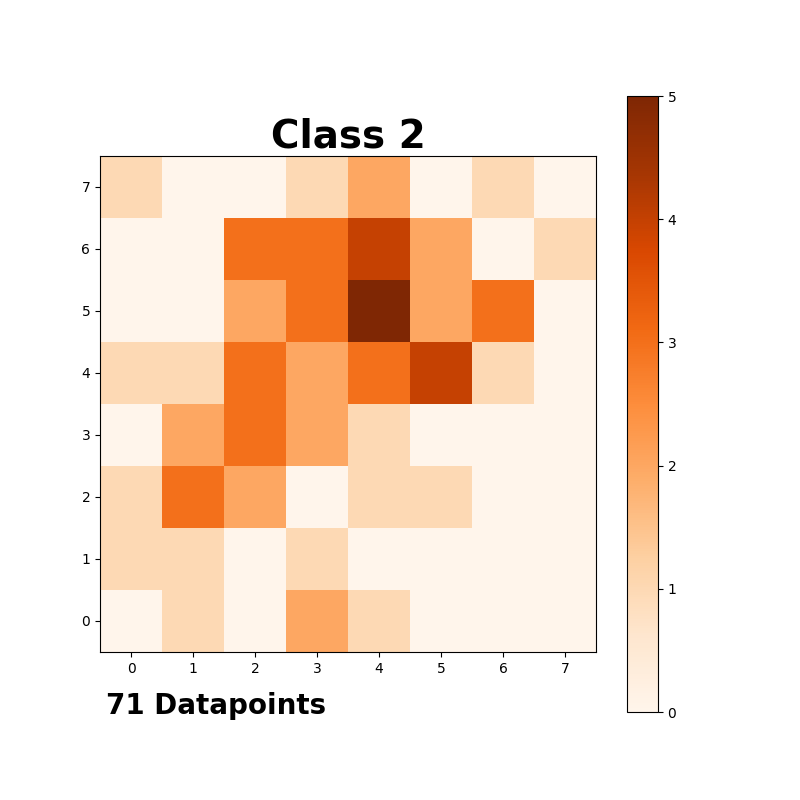
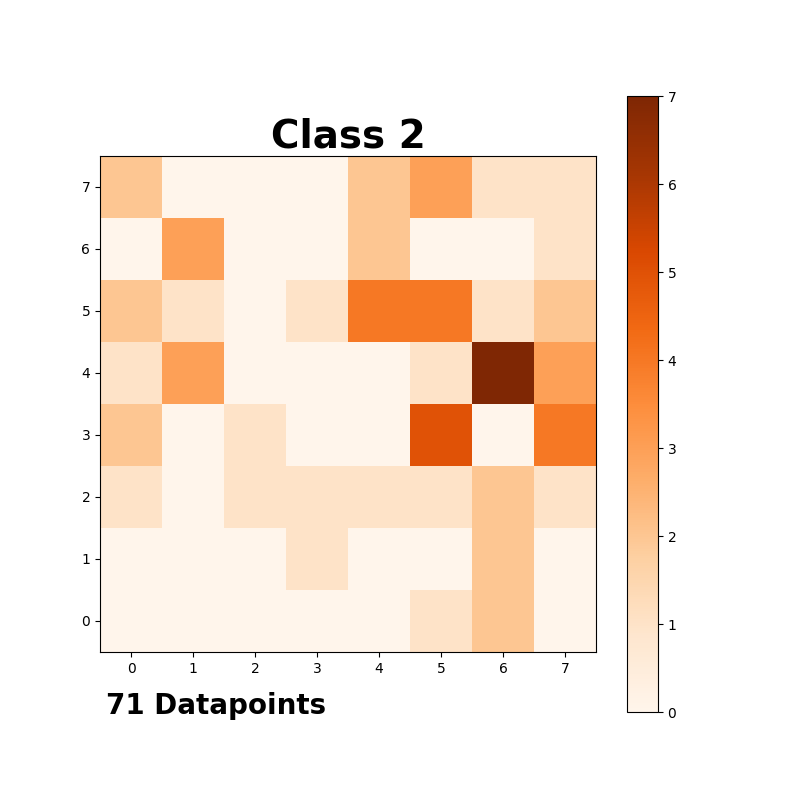
fix normalization error

Changed region(s): [[0.125, 0.1875, 0.75, 0.8125], [0.6562, 0.1875, 0.75, 0.2812]]

diff --git a/main.py b/main.py
@@ -10,8 +10,8 @@ print = logging.info
 def feature_normalizatoion(X):
     for i in range(len(X)):
         x = X[i]
-        x_sqare_sum = np.sum(x**2)
-        x = [f/x_sqare_sum for f in x]
+        x_sqare_sum_root = np.sum(x**2)**0.5
+        x = [f/x_sqare_sum_root for f in x]
         X[i] = x
     return X
 
@@ -39,7 +39,7 @@ if __name__ == "__main__":
     print('CLASS_COUNT:%d'%CLASS_COUNT)
 
     som = SOM(8, 8)  # initialize the SOM
-    som.fit(X, 25000, save_e=True, interval=100)  # fit the SOM for 10000 epochs, save the error every 100 steps
+    som.fit(X, 10000, save_e=True, interval=100)  # fit the SOM for 10000 epochs, save the error every 100 steps
     som.plot_error_history(filename='images/som_error.png')  # plot the training error history
 
     # now visualize the learned representation with the class labels
